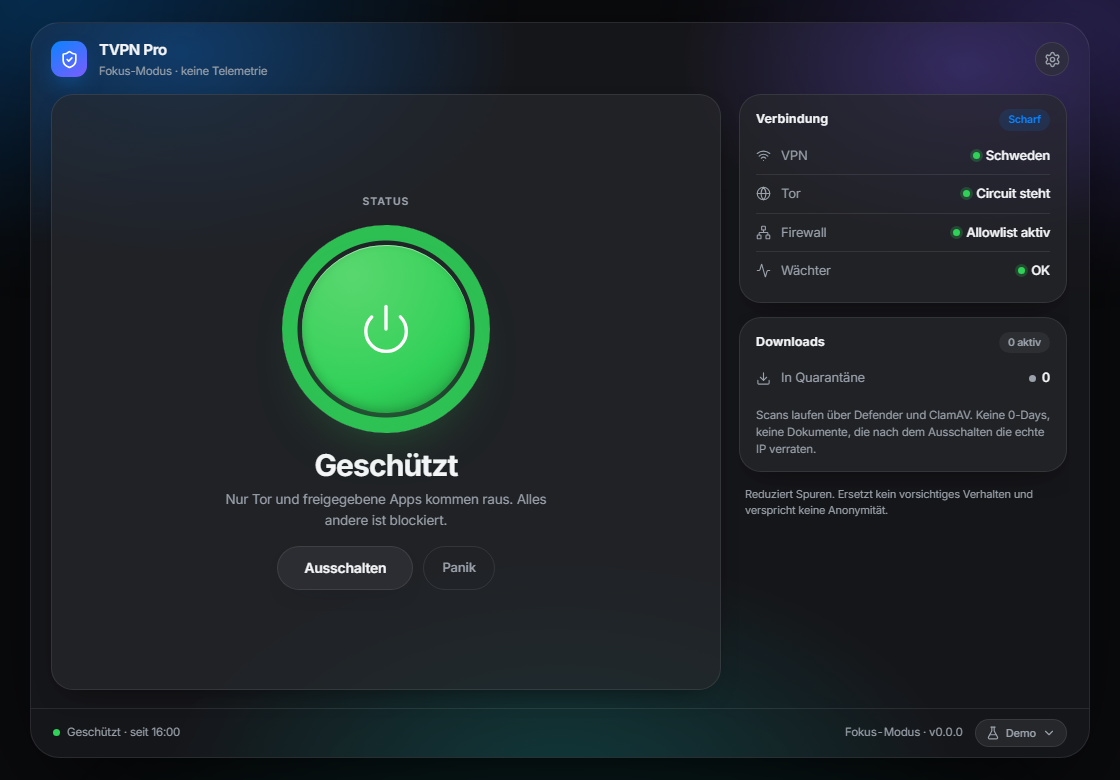
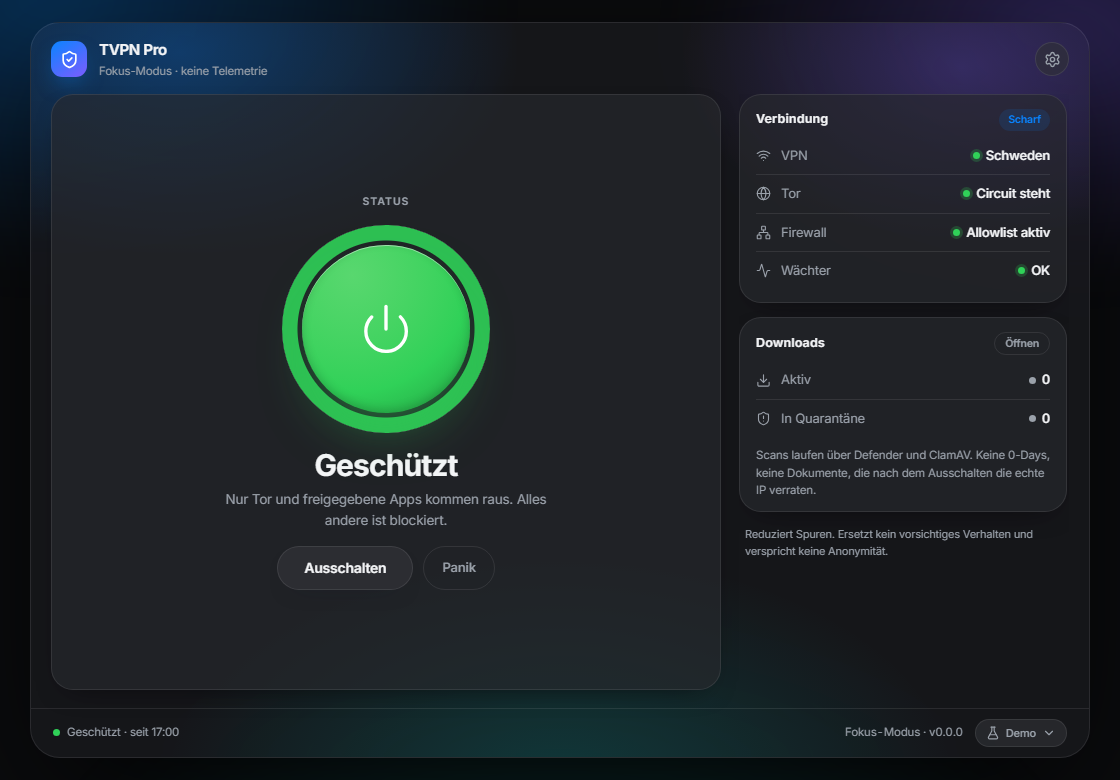
docs: document e2e download flow
Scope, limits, cleanup guarantees and the last run. Decisions D28/D29 cover the E2E strategy and bun as package manager.

diff --git a/docs/reports/e2e-download.md b/docs/reports/e2e-download.md
@@ -1,0 +1,40 @@
+# E2E: Download-Flow und Aufräumen
+
+Stand: 21. November 2026. Test: `ui/tests/e2e/downloads.spec.ts`. Ausführen mit `just e2e` oder `bun --cwd ui run e2e`.
+
+## Was der Test wirklich prüft
+
+| Teil | Real oder Mock | Prüfung |
+|---|---|---|
+| Schutz ein/aus, Zustände, Banner | Mock (kein Dienst, kein Netz) | Klick auf „Einschalten" führt zu „Geschützt"; „Ausschalten" öffnet die Sitzungs-Zusammenfassung |
+| Download-Liste, URL-Prüfung, Fortschritt, Urteil | Mock | HTTPS-Pflicht, Port 443, keine IP-Literale, keine lokalen Namen; Eintrag erreicht „Sauber" |
+| Sitzungs-Zusammenfassung | Mock, aber aus der Download-Liste berechnet | Zähler „Sauber" ist 1, nicht hartkodiert |
+| Aufräumen in der App | Mock | „Liste leeren" hinterlässt den leeren Zustand |
+| Datei-Download | **echt** | lokaler HTTP-Server liefert 256 KiB, Playwright lädt sie herunter, SHA-256 wird geprüft |
+| Aufräumen auf der Platte | **echt** | Download-Ordner und `.tmp` werden gelöscht, `existsSync` bestätigt das |
+
+Der Datei-Teil benutzt bewusst einen lokalen Server auf `127.0.0.1` mit zufälligem Port. Kein Testverkehr verlässt den Rechner, und kein Test hängt von externen Diensten ab.
+
+## Ablauf
+
+1. `beforeAll`: `.tmp/downloads` anlegen, HTTP-Server auf einem freien Port starten, deterministische 256 KiB erzeugen.
+2. UI-Test: App öffnen, einschalten, Downloads-Sheet öffnen, `https://example.org/sample.bin` hinzufügen, auf „Sauber" warten, ausschalten, Zusammenfassung prüfen, Liste leeren.
+3. Datei-Test: Datei über HTTP holen, in `.tmp/downloads/sample.bin` schreiben, `manifest.json` mit SHA-256 schreiben, Hash erneut prüfen, Ordner löschen und Abwesenheit bestätigen.
+4. `afterAll`: Server schließen, `.tmp` erneut löschen. Auch ein fehlgeschlagener Lauf hinterlässt keine Dateien.
+
+## Ergebnis des letzten Laufs
+
+```
+Running 2 tests using 1 worker
+✓ UI: enable, add a download, verdict, disable, clear the list (12.3s)
+✓ files: download to disk, verify the hash, remove everything (76ms)
+2 passed (13.4s)
+```
+
+`ui/tests/e2e/.tmp` existiert danach nicht mehr.
+
+## Grenzen
+
+- Der UI-Test läuft gegen den Mock, weil es noch keinen IPC-Server und keinen echten Downloader gibt. Er beweist den Ablauf und die UI-Zustände, nicht die aria2-/Tor-Kette.
+- Der Datei-Test prüft Transport und Aufräumen, nicht den Virenscan. EICAR, MOTW und Quarantäne kommen mit P4-05/P4-06.
+- Der Test braucht den Dev-Server. In CI startet Playwright ihn selbst; lokal wird ein laufender Server auf Port 5173 wiederverwendet.

diff --git a/docs/TASKS.md b/docs/TASKS.md
@@ -15,7 +15,7 @@ Status: `offen` · `läuft` · `Review` · `fertig` · `blockiert`. Rollen melde
 
 **Stand Phase 0 (G0 offen):** P0-01 bis P0-04 und P0-06 sind inhaltlich fertig und lokal geprüft. P0-02 ist lokal grün (fmt, clippy, tests, pscheck, Redaktions-Gate); der GitHub-CI-Lauf ist noch nicht bewiesen, weil nichts gepusht wurde. P0-05 ist geschrieben, aber **nicht in einer VM gelaufen** — es existiert noch keine VM. P0-07 ist installiert und verifiziert (Rust, MSVC, SDK, PowerShell 7, Tauri CLI); die Bestätigung des Menschen steht mit G0 aus.
 
-**Vorgezogen:** P2-07 (UI-Gerüst gegen IPC-Mock) ist auf Wunsch des Menschen bereits gebaut: `ui/`, alle elf Zustände, Einstellungen, Sitzungs-Zusammenfassung, Hell/Dunkel, Playwright-Designprüfung. Details: `docs/reports/phase-0.md`, Abschnitt 3.
+**Vorgezogen:** P2-07 (UI-Gerüst gegen IPC-Mock) ist auf Wunsch des Menschen bereits gebaut: `ui/`, alle elf Zustände, Einstellungen, Sitzungs-Zusammenfassung, Hell/Dunkel, Playwright-Designprüfung. Dazu ein Downloads-Sheet mit URL-Prüfung, Fortschritt und Urteilen (Mock) sowie ein E2E-Test (`just e2e`): UI-Ablauf plus echter Datei-Download mit SHA-256 und garantierter Löschung. Details: `docs/reports/phase-0.md` Abschnitt 3 und `docs/reports/e2e-download.md`.
 
 **Stand P2-01/P2-02 (läuft):** Der host-sichere Kern in `service/core` ist fertig und getestet (45 Unit-Tests): Zustandsautomat nach Vertrag, Settings-Whitelist mit Alles-oder-nichts-Patch, URL-Regeln, IPC-Envelope mit Größen-/ID-/Versionsprüfung, Redaktions-Scanner. **Offen:** Named-Pipe-Server, `tracing`-Anbindung mit Redaktions-Layer, Hauptprogramm `tvpnd`. Übergabe: `docs/handoffs/P2-01-core.md`.
 

diff --git a/docs/DECISIONS.md b/docs/DECISIONS.md
@@ -31,3 +31,5 @@ Neue Einträge hängt nur der Orchestrator an. Status: `Vorschlag` oder `Abgenom
 | D25 | MSVC-Umgebung über `tools/with-msvc.ps1` (vcvars64 via vswhere), nicht über globale Umgebungsvariablen | Ein normales Terminal hat `LIB`/`INCLUDE` nicht; der Wrapper ist reproduzierbar, CI hat die Umgebung ohnehin | Eine dauerhafte Developer-Shell wird bevorzugt | Vorschlag |
 | D26 | Tauri-Fenster: frameless, transparent, eigener Titelbar mit Drag-Region; Inhalt als gerundetes Panel | Windows-Chrome würde die macOS-Anmutung brechen; Transparenz liefert die weichen Ecken | Transparente Fenster machen unter WebView2 Probleme | Vorschlag |
 | D27 | UI läuft bis zur IPC-Implementierung gegen Mock-Daten; Playwright-Screenshots sind das Design-Gate | Ohne Dienst ist die UI sonst nicht prüfbar; die Screenshots zeigen alle Zustände in Hell und Dunkel | Der Dienst liefert echte Daten | Abgenommen (Auftrag „checke alles") |
+| D28 | E2E: Playwright gegen den Dev-Server, UI gegen Mock, plus echter Datei-Download von einem lokalen HTTP-Server mit SHA-256 und garantierter Löschung | Ohne Dienst und Downloader ist nur so ein vollständiger Ablauf prüfbar; keine externen Abhängigkeiten, kein Testverkehr nach außen | IPC und aria2-Kette existieren | Abgenommen (Auftrag „E2E einrichten") |
+| D29 | Paketmanager **bun** statt npm; `ui/bun.lock` ersetzt `package-lock.json` | AGENTS.md bevorzugt bun; ein Lockfile, keine zwei | Ein Werkzeug setzt npm zwingend voraus | Vorschlag |
